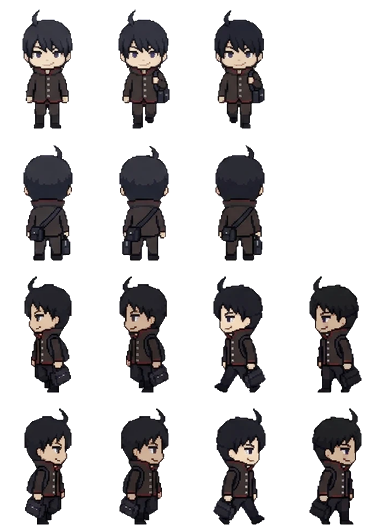
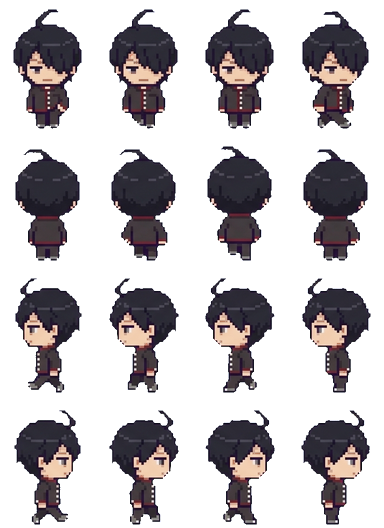
Redraw Araragi Koyomi in the shared art style
Claude-Session: https://claude.ai/code/session_01KaPsBYLrtbRfMYNG2xeBCK

diff --git a/docs/app.js b/docs/app.js
@@ -75,7 +75,7 @@ function spr(cat, k, col, sc) {
   return `<div class="clip" style="width:${it[2] * sc}px;height:${it[3] * sc}px;POS"><img class="px" src="assets/decor/${cat}.png" alt="" style="width:${S.sw * sc}px;height:${S.sh * sc}px;margin-left:${-col * S.cw * sc}px;margin-top:${-i * S.ch * sc}px"></div>`;
 }
 const icon = (k, sz) => `<span class="itm" style="width:${sz}px;height:${sz}px"><img class="px" src="assets/ui/items.png" alt="" style="width:${IT.length * sz}px;height:${sz}px;margin-left:${-ITM[k].i * sz}px"></span>`;
-const face = (id, w) => { const s = w / 96; return `<img class="px" src="assets/ch/${id}.webp?v=49" alt="" style="position:absolute;width:${384 * s}px;height:${528 * s}px;left:${-(96 * s - w) / 2}px;top:0;max-width:none">`; };
+const face = (id, w) => { const s = w / 96; return `<img class="px" src="assets/ch/${id}.webp?v=50" alt="" style="position:absolute;width:${384 * s}px;height:${528 * s}px;left:${-(96 * s - w) / 2}px;top:0;max-width:none">`; };
 
 // ---------- 저장 ----------
 let fb = null, user = null, S = null, saveT = null;
@@ -143,7 +143,7 @@ function sleepHTML(id, r, dy) {
   const pos = r.a && r.a[0] === 'bed' ? 'left:3%;bottom:20%' : r.b && r.b[0] === 'bed' ? 'right:3%;bottom:20%' : 'left:calc(50% - 44px);bottom:6%';
   const s = 36 / 96;
   return `<div style="position:absolute;width:88px;height:56px;${pos};z-index:${dy ? 4 : 5};${dy ? `transform:translate(12px,${dy}px)` : ''}"><div style="position:absolute;inset:0;filter:brightness(.22)">
-    <div style="position:absolute;left:11px;top:1px;width:36px;height:50px;overflow:hidden;transform:rotate(-90deg)"><img class="px" src="assets/ch/${id}.webp?v=49" alt="" style="width:${384 * s}px;height:${528 * s}px;max-width:none;margin-top:${-132 * s}px"></div>
+    <div style="position:absolute;left:11px;top:1px;width:36px;height:50px;overflow:hidden;transform:rotate(-90deg)"><img class="px" src="assets/ch/${id}.webp?v=50" alt="" style="width:${384 * s}px;height:${528 * s}px;max-width:none;margin-top:${-132 * s}px"></div>
     <div style="position:absolute;left:19px;top:19px;width:67px;height:29px;border:2px solid var(--ink);border-radius:8px 6px 4px 4px;background:#8ccff5;background-image:repeating-linear-gradient(90deg,transparent 0 10px,rgba(255,255,255,.5) 10px 13px)"></div></div>
     ${dy ? '' : '<span class="emo" style="left:8px;top:-22px;color:#5b6bd6">Z z z</span>'}</div>`;
 }
@@ -153,8 +153,8 @@ function roomHTML(id, o, scale) {
     <div class="floor" style="background-color:${PAL[r.fc][1]};background-image:${tileUrl('floor', r.fl)}"></div>
     ${slot('deco', r.dc, 'left:6%;top:6%')}${slot('furn', r.a, 'left:3%;bottom:20%')}${slot('furn', r.b, 'right:3%;bottom:20%')}${slot('prop', r.pr, 'left:28%;bottom:4%;z-index:2')}
     ${id && o.sleeping && g ? sleepHTML(g, r, -16) : ''}${id && o.sleeping ? sleepHTML(id, r) : ''}${id && o.job ? `<div style="position:absolute;left:50%;top:38%;transform:translateX(-50%);z-index:5;background:#fff;border:3px solid var(--ink);border-radius:10px;padding:6px 10px;font-size:11px;text-align:center;line-height:1.5"><img src="assets/ui/ic_job.png" alt="" style="width:18px;vertical-align:-4px"> ${WORK[id] ? WORK[id][1] : esc(JOB_NAME[id]) + ' 알바 중'}${g ? `<br><small>${esc(nameOf(g))}도 같이</small>` : ''}<br><b id="jobleft">${timeLeft(o.job.until)}</b></div>` : ''}
-    ${id ? `<div class="shadow" id="shd" ${o.sleeping || o.job ? 'style="display:none"' : ''}></div><div class="man" id="man" ${o.sleeping || o.job ? 'style="display:none"' : ''}><img class="px" src="assets/ch/${id}.webp?v=49" alt="${esc(nameOf(id))}"></div><span class="emo" id="emo" hidden></span><span class="mumble" id="mum" hidden></span>` : ''}
-    ${g ? `<div class="shadow" id="gshd" ${hideG}></div><div class="man" id="gman" ${hideG}><img class="px" src="assets/ch/${g}.webp?v=49" alt="${esc(nameOf(g))}"></div><span class="emo" id="gemo" hidden></span><span class="mumble gmum" id="gmum" hidden></span>` : ''}
+    ${id ? `<div class="shadow" id="shd" ${o.sleeping || o.job ? 'style="display:none"' : ''}></div><div class="man" id="man" ${o.sleeping || o.job ? 'style="display:none"' : ''}><img class="px" src="assets/ch/${id}.webp?v=50" alt="${esc(nameOf(id))}"></div><span class="emo" id="emo" hidden></span><span class="mumble" id="mum" hidden></span>` : ''}
+    ${g ? `<div class="shadow" id="gshd" ${hideG}></div><div class="man" id="gman" ${hideG}><img class="px" src="assets/ch/${g}.webp?v=50" alt="${esc(nameOf(g))}"></div><span class="emo" id="gemo" hidden></span><span class="mumble gmum" id="gmum" hidden></span>` : ''}
     ${o.sleeping ? `<div class="night"></div><div class="sleepleft">쿨쿨 · 일어나기까지 <b id="sleepleft">${timeLeft(wakeAt(o)).replace(' 남음', '')}</b></div>` : ''}
   </div>`;
 }
@@ -167,7 +167,7 @@ function meterHTML(o) {
 const ic = (act, img, label, pressed) => `<button class="ic" data-act="${act}" ${pressed ? 'aria-pressed="true"' : ''}><img src="assets/ui/ic_${img}.png?v=2" alt="">${label}</button>`;
 
 let dropStyle = null; const cheat = {};
-const APP_V = 121, COUPONS = { NINOGUYA: 3000 };
+const APP_V = 122, COUPONS = { NINOGUYA: 3000 };
 // 쿠폰 입력 정리: 한글 자판 상태로 친 글자(ㅜㅑㅜㅐ혀ㅛㅁ)도 영어 자판 글자로 바꾸고, 대소문자·띄어쓰기·마침표는 무시해요
 const KEY = { ㄱ: 'r', ㄲ: 'R', ㄴ: 's', ㄷ: 'e', ㄸ: 'E', ㄹ: 'f', ㅁ: 'a', ㅂ: 'q', ㅃ: 'Q', ㅅ: 't', ㅆ: 'T', ㅇ: 'd', ㅈ: 'w', ㅉ: 'W', ㅊ: 'c', ㅋ: 'z', ㅌ: 'x', ㅍ: 'v', ㅎ: 'g',
   ㅏ: 'k', ㅐ: 'o', ㅑ: 'i', ㅒ: 'O', ㅓ: 'j', ㅔ: 'p', ㅕ: 'u', ㅖ: 'P', ㅗ: 'h', ㅘ: 'hk', ㅙ: 'ho', ㅚ: 'hl', ㅛ: 'y', ㅜ: 'n', ㅝ: 'nj', ㅞ: 'np', ㅟ: 'nl', ㅠ: 'b', ㅡ: 'm', ㅢ: 'ml', ㅣ: 'l',
@@ -407,7 +407,7 @@ function startTrip(k) {
   if (tg) lines[1] = `${nameOf(tg)}: ${withHim(sub(pick(GLX(tg).trip), o, c.n), tg)}`;
   const n = (FR[id] || [4, 4, 4, 4])[3], el = document.createElement('div'); el.className = 'tripview';
   el.innerHTML = `<div class="tsay"> </div><div class="tstage" style="background-image:url(assets/travel/${k}.png?v=2)"><div class="tplace">${esc(c.n)}</div>
-    <div class="twalker"><img class="px" src="assets/ch/${id}.webp?v=49" alt=""></div>${tg ? `<div class="twalker tgirl"><img class="px" src="assets/ch/${tg}.webp?v=49" alt=""></div>` : ''}<span class="emo tjoy">♪</span></div>
+    <div class="twalker"><img class="px" src="assets/ch/${id}.webp?v=50" alt=""></div>${tg ? `<div class="twalker tgirl"><img class="px" src="assets/ch/${tg}.webp?v=50" alt=""></div>` : ''}<span class="emo tjoy">♪</span></div>
     <div class="tbar"><i></i></div><button class="btn white tskip" data-tskip="1">바로 돌아오기</button>`;
   document.body.appendChild(el);
   const gimg = el.querySelector('.tgirl img'), gn = tg ? (FR[tg] || [4, 4, 4, 4])[3] : 1;
@@ -636,7 +636,7 @@ setInterval(() => { if (S && user) { tickTime(); save(); } }, 60000);
     if (nv > APP_V && !location.search.includes('u=' + nv)) { location.replace(location.pathname + '?u=' + nv); return; }
   } catch { }
   app.innerHTML = '<div class="start"><div class="egg"><div class="scr"></div></div><div class="note">불러오는 중....</div></div>';
-  const [c, t, f, it, mu, ct, tv, gl, sts] = await Promise.all(['data/chars.json', 'data/talk.json', 'data/frames.json', 'data/items.json', 'data/mumble.json', 'data/countries.json', 'data/travel.json', 'data/girls.json', 'data/sets.json'].map(u => fetch(u + '?v=121').then(r => r.ok ? r.json() : {})));
+  const [c, t, f, it, mu, ct, tv, gl, sts] = await Promise.all(['data/chars.json', 'data/talk.json', 'data/frames.json', 'data/items.json', 'data/mumble.json', 'data/countries.json', 'data/travel.json', 'data/girls.json', 'data/sets.json'].map(u => fetch(u + '?v=122').then(r => r.ok ? r.json() : {})));
   CH = c; CHM = Object.fromEntries(c.map(x => [x.id, x])); TALK = t; FR = f; IT = it; ITM = Object.fromEntries(it.map(x => [x.k, x])); MUM = mu; CTRY = ct; TRV = tv; GL = Array.isArray(gl) ? gl : []; SETS = Array.isArray(sts) ? sts : []; GLM = Object.fromEntries(GL.map(x => [x.id, x]));
   try { await initFirebase(); } catch (e) { console.warn('Firebase 연결 실패, 기기 저장으로', e); fb = null; }
   if (fb) {

diff --git a/docs/index.html b/docs/index.html
@@ -18,6 +18,6 @@
 <main id="app" aria-live="polite"></main>
 <div id="toast" role="status" hidden></div>
 <script src="firebase-config.js?v=3"></script>
-<script type="module" src="app.js?v=121"></script>
+<script type="module" src="app.js?v=122"></script>
 </body>
 </html>
